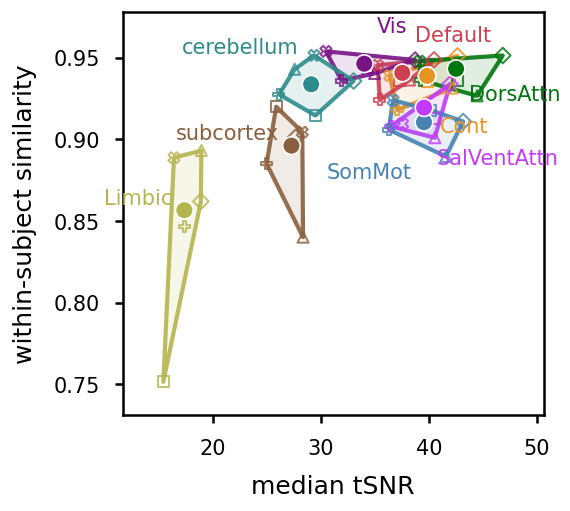
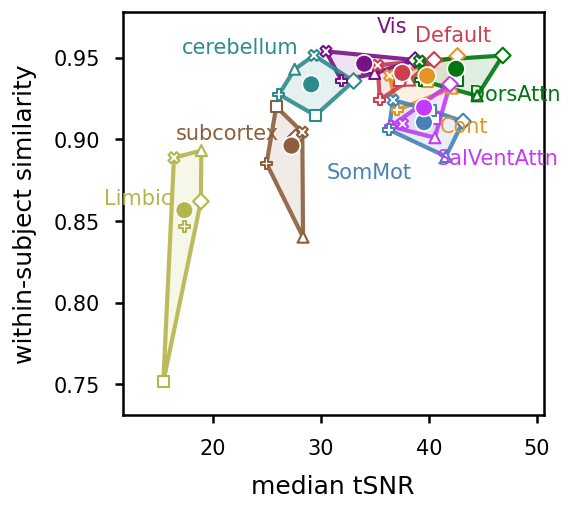
Refresh CLAUDE.md numbers after the 2026-10-04 recompute; white-fill panel C markers
Today's recompute (TR 1.49 s, qa_figures 53a3340) moved the populations
CLAUDE.md quotes: 650/1128 sessions pass the gate (was 659/1126) and 496
are QC-covered (was 304). Update every derived number in the gate,
motion and tSNR sections, plus matching docstrings and CONTENT.md.

Substantive changes to the reported results:
- duration imbalance between within-/between-task bins is now ~1.16x
- motion: still a null (min p 0.555), now stated explicitly
- tSNR: sign now mixed rather than predominantly negative; 1 of 18
  tests reaches p<0.05 (subcortex, fd_residual, 5/6 subjects), which
  fails the six-participant rule and is about chance across 18 tests
- claim 2's ordering rechecked: 27/27 cells on both QC axes, 9/9
  networks under all five gates
- panel G stability order: DorsAttn now ranks above Default

Panel C: subject markers get a white face so the network outlines no
longer show through them.

diff --git a/analysis/motion_strata.py b/analysis/motion_strata.py
@@ -8,8 +8,8 @@ this is a *relative* split, not an absolute-threshold one, and `fd_mean`
 coverage (mario, harrypotter both entirely unmatched upstream) rules out the
 domain stratification — this runs pooled over all FD-covered datasets. See
 CLAUDE.md, "Motion stratification", for the full empirical basis (motion is
-subject- and dataset-specific, `fd_mean` vs `tsnr` r=-0.68, `fd_mean` vs
-usable duration r=-0.065).
+subject- and dataset-specific, `fd_mean` vs `tsnr` r=-0.65, `fd_mean` vs
+usable duration r=-0.013).
 
 Thin configuration over `analysis/quality_strata.py`, which holds the
 machinery shared with `analysis/tsnr_strata.py`. Low motion is the *good*
@@ -39,7 +39,7 @@ MOTION_STRATUM = "motion_stratum"
 GOOD_STRATUM = "low"
 
 # Pair-min usable duration AND pair-min tSNR: the motion stratum is
-# substantially a tSNR stratum too (r=-0.68 — CLAUDE.md, "Motion
+# substantially a tSNR stratum too (r=-0.65 — CLAUDE.md, "Motion
 # stratification") and both must be reported together, never as independent
 # axes.
 MOTION_BALANCE_COLUMNS = (

diff --git a/analysis/quality_strata.py b/analysis/quality_strata.py
@@ -42,7 +42,7 @@ DEFAULT_SPLITS = (
 )
 
 # The column every analysis defines its covered population by. Both axes have
-# identical coverage in practice (246/246 gated sessions), and sharing one
+# identical coverage in practice (496/496 QC-covered sessions), and sharing one
 # definition is what makes the per-axis gates in `group_stats.GATES` directly
 # comparable — see CLAUDE.md, "tSNR stratification".
 COVERAGE_COLUMN = "fd_mean"
@@ -96,7 +96,7 @@ def assign_strata(index_frame, column, stratum_column, split_by=("subject", "dat
     predictor *within the same group* (`_cell_residuals`), which makes the
     stratum orthogonal to the predictor by construction rather than by
     assumption — see CLAUDE.md, "tSNR stratification", for why that matters
-    when the two QC axes correlate at r = -0.68.
+    when the two QC axes correlate at r = -0.65.
     """
     frame = index_frame.copy()
     frame[stratum_column] = pd.array([None] * len(frame), dtype=object)

diff --git a/analysis/tsnr_strata.py b/analysis/tsnr_strata.py
@@ -14,7 +14,7 @@ it (CLAUDE.md, "tSNR stratification"):
   the gap on 2026-10-04, and a per-network version is now feasible but not
   implemented (CLAUDE.md, "Still open").
 - **Two stratum definitions, not one.** `tsnr` and `fd_mean` correlate at
-  r=-0.68, and a raw tSNR median split agrees with the motion stratum on 72%
+  r=-0.65, and a raw tSNR median split agrees with the motion stratum on 72%
   of sessions, so a raw-only analysis would largely re-run the motion result.
   `fd_residual` splits on tSNR residualized on `fd_mean` within the same cell,
   which is near-independent of the motion stratum (~chance agreement) and

diff --git a/tasks.py b/tasks.py
@@ -699,7 +699,7 @@ def run_tsnr_strata(c, dataset=None, smoke=False):
     dataset) cell, under two definitions carried side by side in a
     `stratum_def` column: `raw` tSNR, and `fd_residual` — tSNR residualized on
     `fd_mean` within the same cell, which is what separates a signal-quality
-    effect from the motion effect the two axes share (r=-0.68). Whole-brain
+    effect from the motion effect the two axes share (r=-0.65). Whole-brain
     tSNR only, chosen when `atlas_tsnr` was empty upstream for every gated
     dataset; it is now populated for most of them, but this step has not been
     extended per network.

diff --git a/CLAUDE.md b/CLAUDE.md
@@ -118,7 +118,7 @@ These are decided. Implement them as written; do not reopen them unprompted.
 - **Pearson only for results; `partial_ledoitwolf` computed and stored, not reported.** `run-connectomes` still computes both measures identically for every network — `pearson` and `partial_ledoitwolf` (nilearn's default-shrinkage partial correlation) — via `connectome_measures` in `invoke.yaml`, but `run-group-stats` reads only `analysis_measure: pearson`. See "Why partial correlation was dropped" above for the numbers behind this. The unregularized empirical inverse (`partial_empirical`) was tried earlier and dropped for a separate reason: for run-level data, `n_samples` can be smaller than `n_parcels` in the larger networks (Default has 209 parcels, SomMot 194 for cneuromod2026), making the sample covariance exactly singular — a routine failure, not an edge case.
 - **Session-level only.** `run-connectomes` writes one connectome per session (runs z-scored, then concatenated — see "Standardize, then concatenate" below) for **every** session found. There is no run-level connectome output; the session is the sole unit of analysis (~1,200 volumes at TR = 1.49 s vs. ~150 parcels per cortical network — comfortably more observations than variables). Per-run QC (motion, tSNR) is still read and aggregated up to the session, since qa_figures only tabulates it per run — see "The QC measures asset (qa_figures)" above — but no per-run connectome is computed or stored.
 - **Record QC, never gate on it, at connectome-computation time.** Every session found gets a connectome; all exclusion happens in `run-group-stats`, where it can be varied without recomputing. This keeps "exclusion thresholds must not be tuned against similarity contrasts" (below) honest.
-- **Usable-data gate: `usable_duration_sec >= 1800` (30 minutes), everywhere.** Chosen a priori from QC, not tuned against similarity contrasts — but not on duration alone either. `run-group-stats`'s cross-context contrast (claim 2) compares within-dataset against between-dataset session pairs, and pair *duration* is itself a confound there: at the earlier 600 s gate, median pair min-duration was ~2661–2692 s for the two within-task bins versus ~1701–1706 s for the two between-task bins — a ~1.6x imbalance that similarity rises with, independent of any task effect. Raising the gate to 1800 s narrowed that gap sharply. **It no longer closes it, as of 2026-09-05**: with the six datasets added on 2026-09-04 in the analysis, the gated bins are ~2772/2778 s for the two within-task bins against ~2307/2327 s for the two between-task bins — a ~1.20x imbalance, up from the ~4% (~2668–2784 s) the gate achieved over the original 11 datasets. Part of claim 2's between-task drop is therefore again a duration effect, and the gate alone no longer neutralizes it. Report the medians in `duration_balance.tsv` alongside the contrast; do not present the 1800 s gate as having made this contrast duration-clean. This is a threshold chosen from an acquisition/design property (pair duration composition), computed with no reference to similarity values — not the forbidden kind of tuning. `run-group-stats` writes this comparison to `duration_balance.tsv` for both gates. The cost: `floc` (0/18 sessions survive), `retinotopy` (0/23), `things` (0/141), `gamepad` (0/17), `langlocalizer` (0/12) and `triplets` (0/105) leave claim 2 entirely — six of the sixteen task contexts, and the ones least like the naturalistic datasets — so claim 2 spans 10 contexts (`friends, harrypotter, hcptrt, mario, movie10, multfs, mutemusic, narratives, petit-prince, shinobi`). All 6 subjects are retained. At 1800 s, 659 of 1126 sessions survive. `run-group-stats` still reports every headline table both gated and ungated (`gate="all"` in every TSV) as the standing sensitivity comparison.
+- **Usable-data gate: `usable_duration_sec >= 1800` (30 minutes), everywhere.** Chosen a priori from QC, not tuned against similarity contrasts — but not on duration alone either. `run-group-stats`'s cross-context contrast (claim 2) compares within-dataset against between-dataset session pairs, and pair *duration* is itself a confound there: at the earlier 600 s gate, median pair min-duration was ~2661–2692 s for the two within-task bins versus ~1701–1706 s for the two between-task bins — a ~1.6x imbalance that similarity rises with, independent of any task effect. Raising the gate to 1800 s narrowed that gap sharply. **It no longer closes it, as of 2026-10-04**: with the six datasets added on 2026-09-04 in the analysis, the gated bins are ~2628/2596 s for the two within-task bins against ~2248/2268 s for the two between-task bins — a ~1.16x imbalance, up from the ~4% (~2668–2784 s) the gate achieved over the original 11 datasets. Part of claim 2's between-task drop is therefore again a duration effect, and the gate alone no longer neutralizes it. Report the medians in `duration_balance.tsv` alongside the contrast; do not present the 1800 s gate as having made this contrast duration-clean. This is a threshold chosen from an acquisition/design property (pair duration composition), computed with no reference to similarity values — not the forbidden kind of tuning. `run-group-stats` writes this comparison to `duration_balance.tsv` for both gates. The cost: `floc` (0/18 sessions survive), `retinotopy` (0/23), `things` (0/141), `gamepad` (0/17), `langlocalizer` (0/12) and `triplets` (0/107) leave claim 2 entirely — six of the sixteen task contexts, and the ones least like the naturalistic datasets — so claim 2 spans 10 contexts (`friends, harrypotter, hcptrt, mario, movie10, multfs, mutemusic, narratives, petit-prince, shinobi`). All 6 subjects are retained. At 1800 s, 650 of 1128 sessions survive. `run-group-stats` still reports every headline table both gated and ungated (`gate="all"` in every TSV) as the standing sensitivity comparison.
 - **float32, raw coefficients only.** Fisher-z is `arctanh` of the raw values, computed where used. This **amends** the original "store both raw and Fisher-z" decision.
 - **Estimate independently within each network.** For a network of `p` parcels, build the `p × p` covariance and invert that. The primary analysis must **never silently attempt to invert a 1000+ × 1000+ covariance matrix** — it is both computationally and statistically wrong here. Cross-network edges are out of the primary analysis. A full regularized whole-brain precision matrix is a possible *later* secondary analysis.
 - **Standardize, then concatenate.** Each run's parcel time series is z-scored *within the run* before runs from the same session are concatenated (`analysis/timeseries_reader.py`'s `standardize_run`). Never concatenate raw runs — run-specific means and scaling differences would themselves induce correlations. (Timeseries are already standardized upstream per TIMESERIES.md, so this is a safeguard, not the thing doing the work.)
@@ -145,41 +145,43 @@ A robustness-tier check (`analysis/motion_strata.py`, `run-motion-strata`): does
 
 The design started as "FD < 0.1 vs FD > 0.3, cross-motion within subject" and was reshaped by two empirical facts:
 
-- **No session in the gated population reaches `fd_mean > 0.3`.** Over the 659 gated sessions, max is 0.248, median 0.121, 99th pct 0.222 — CNeuroMod adults, averaged over a >=30 min session, are a uniformly low-motion cohort. So the split is **relative** (median split within a group), not an absolute mm threshold.
-- **`fd_mean` covers only 304 of 659 gated sessions.** `mario` (empty QC table upstream) and `harrypotter` (blank `session` column upstream) have zero coverage, so the domain stratification (movies/videogames/stories) cannot carry this analysis — it runs **pooled over all FD-covered datasets** instead: `friends`, `movie10`, `hcptrt`, `shinobi`, `petit-prince`, `multfs`, `mutemusic`, `narratives`.
+- **No session in the gated population reaches `fd_mean > 0.3`.** Over the 496 QC-covered sessions, max is 0.248, median 0.128, 99th pct 0.221 — CNeuroMod adults, averaged over a >=30 min session, are a uniformly low-motion cohort. So the split is **relative** (median split within a group), not an absolute mm threshold.
+- **`fd_mean` covers only 496 of 650 gated sessions.** `mario` (empty QC table upstream) and `harrypotter` (blank `session` column upstream) have zero coverage, so the domain stratification (movies/videogames/stories) cannot carry this analysis — it runs **pooled over all FD-covered datasets** instead: `friends`, `movie10`, `hcptrt`, `shinobi`, `petit-prince`, `multfs`, `mutemusic`, `narratives`.
 
 **QC-covered population** (`analysis.motion_strata.qc_covered_mask`): gated (`usable_duration_sec >= group_stats.min_usable_seconds`) **and** `fd_mean` present. Every motion table is restricted to this population — never the raw gated population, which would let `fd_mean`-uncovered sessions leak in unassigned.
 
-**Strata**: `motion_stratum in {low, high}` = below/above the median `fd_mean` within each **(subject, dataset)** cell (`assign_motion_strata`, split `"cell"`), cells with fewer than 4 covered sessions dropped (276 of 304 sessions survive). Motion is strongly subject- and dataset-specific (median `fd_mean` ranges 0.085-0.187 across subjects; sub-02 alone is 9 high/0 low on shinobi vs. 3 high/14 low on friends), so splitting within subject alone would leave "high motion" partly meaning "shinobi" — the (subject, dataset) cell makes the stratum orthogonal to both by construction. The plain **within-subject** median split (304 sessions) is computed and written alongside it as a secondary `split` column in every table (`"cell"` vs. `"subject"`), not a second code path.
+**Strata**: `motion_stratum in {low, high}` = below/above the median `fd_mean` within each **(subject, dataset)** cell (`assign_motion_strata`, split `"cell"`), cells with fewer than 4 covered sessions dropped (468 of 496 sessions survive). Motion is strongly subject- and dataset-specific (median `fd_mean` ranges 0.082-0.166 across subjects; on the within-subject split, sub-02 alone is 9 high/0 low on shinobi vs. 23 high/29 low on friends), so splitting within subject alone would leave "high motion" partly meaning "shinobi" — the (subject, dataset) cell makes the stratum orthogonal to both by construction. The plain **within-subject** median split (496 sessions) is computed and written alongside it as a secondary `split` column in every table (`"cell"` vs. `"subject"`), not a second code path.
 
-`fd_mean` vs. `tsnr` is **r = -0.68** — the motion stratum is substantially a tSNR stratum, and `motion_balance.tsv` reports both together, never as independent axes. `fd_mean` vs. usable duration is **r = -0.070** and the strata come out duration-balanced (a few percent apart), so the duration confound that forced the 1800 s gate does not bite here.
+`fd_mean` vs. `tsnr` is **r = -0.65** — the motion stratum is substantially a tSNR stratum, and `motion_balance.tsv` reports both together, never as independent axes. `fd_mean` vs. usable duration is **r = -0.013** and the strata come out duration-balanced (a few percent apart), so the duration confound that forced the 1800 s gate does not bite here.
 
 **Pair bins** (`motion_pair_bin_labels`/`motion_pair_bins`): 3 motion pairings (`low-low`, `low-high`, `high-high`) x 2 task bins (`within-task`/`between-task`, dataset equality — same axis as `cross_context`), **within-subject pairs only**.
 
 **Inference** (six subjects — CLAUDE.md, "Scientific objective"): pooled medians are descriptive only. `motion_permutation.tsv` carries two additions per network: a two-sided permutation test (`N=motion_strata.n_permutations`, shuffling `motion_stratum` *within each (subject, dataset) cell* — the exchangeability the stratification buys — and recomputing `median(low-low) - median(high-high)`, pooled over both task bins since motion, not task, is the axis under test), and per-subject replication (`n_subjects_replicating`/`n_subjects_total`: in how many of 6 subjects `median(low-low) > median(high-high)` holds individually).
 
+**Result, as of 2026-10-04** (650 gated / 496 QC-covered sessions): a null. No network reaches p<0.05 (smallest p = 0.555), max |observed_diff| is 0.010 against a within-task/between-task gap of ~0.05-0.18, and the pooled sign is mixed (6 networks negative, 3 positive). Claim 2's within-task > between-task ordering holds in **27/27** network x motion-pairing cells.
+
 **Honest framing**, to carry into any text reporting these numbers: this tests whether *relative* motion differences inside an already low-motion cohort move connectome similarity. A null is informative about these data; it is not evidence about high-motion data in general.
 
-**`low_motion`/`high_tsnr` vs. `qc_covered`, not vs. `gated`.** `analysis/group_stats.py`'s `GATES` is `("all", "gated", "qc_covered", "low_motion", "high_tsnr")`, where `qc_covered` is gated and `fd_mean` present, `low_motion` is `qc_covered` and `motion_stratum == "low"`, and `high_tsnr` is `qc_covered` and `tsnr_stratum == "high"` (raw definition) — both on the `"cell"` split, both delegated to `analysis.motion_strata`/`analysis.tsnr_strata` from `_gate_mask_for` rather than reimplemented. The meaningful contrast for the headline tables is against `qc_covered`, not `gated`: both quality gates necessarily drop mario/harrypotter (no QC coverage), so comparing them against `gated` would confound a quality effect with that change in dataset composition. The two gates are coupled, not independent checks — `high_tsnr` is 71% concordant with `low_motion` (see "tSNR stratification" below). Verified: claim 2's four-bin ordering (within-subj/within-task > within-subj/between-task > between-subj/within-task > between-subj/between-task) holds in all 9 networks under `qc_covered`, `low_motion` and `high_tsnr` alike.
+**`low_motion`/`high_tsnr` vs. `qc_covered`, not vs. `gated`.** `analysis/group_stats.py`'s `GATES` is `("all", "gated", "qc_covered", "low_motion", "high_tsnr")`, where `qc_covered` is gated and `fd_mean` present, `low_motion` is `qc_covered` and `motion_stratum == "low"`, and `high_tsnr` is `qc_covered` and `tsnr_stratum == "high"` (raw definition) — both on the `"cell"` split, both delegated to `analysis.motion_strata`/`analysis.tsnr_strata` from `_gate_mask_for` rather than reimplemented. The meaningful contrast for the headline tables is against `qc_covered`, not `gated`: both quality gates necessarily drop mario/harrypotter (no QC coverage), so comparing them against `gated` would confound a quality effect with that change in dataset composition. The two gates are coupled, not independent checks — `high_tsnr` is 72% concordant with `low_motion` (see "tSNR stratification" below). Verified: claim 2's four-bin ordering (within-subj/within-task > within-subj/between-task > between-subj/within-task > between-subj/between-task) holds in all 9 networks under `qc_covered`, `low_motion` and `high_tsnr` alike (rechecked 2026-10-04).
 
 ### tSNR stratification
 
-The companion robustness-tier check on the other QC axis (`analysis/tsnr_strata.py`, `run-tsnr-strata`): does connectome similarity depend on acquisition signal quality, and does claim 2's ordering survive when tSNR is held high? Thin configuration over the same `analysis/quality_strata.py` core as the motion check, over the **same** QC-covered population, with `high` as the good stratum so `observed_diff = median(high-high) - median(low-low)` keeps the "better quality is positive" sign convention on both axes. Standalone figure (`notebooks/figure_tsnr.ipynb`), **not** placed in `output_data/connectome_figure.svg`. The notebook renders two panels, one per `stratum_def`, sharing one legend: `tsnr_bins_raw.png` (median split on `tsnr` itself) is the **primary, reported** result, and `tsnr_bins_fd_residual.png` (median split on `tsnr` residualized on `fd_mean` within cell) is a **sensitivity-analysis** panel, not a second headline — tSNR and `fd_mean` correlate at r=-0.68 (related, but not equivalent to motion), so `fd_residual` checks whether the `raw` result survives once head motion is regressed out, kept separate rather than crowding the primary panel because it reads as more cryptic than `raw` on its own. Both panels group bars with all within-task bins next to one another and all between-task bins next to one another (task outer, tSNR-pairing inner), matching the motion figure's convention. The duration/tSNR/motion balance audit (`tsnr_balance.tsv`) and the permutation-test effect sizes (`tsnr_permutation.tsv`) are still computed by `run-tsnr-strata`, and reported as text (key stats and ranges), not as figure panels — this is the user's explicit preference, at their request.
+The companion robustness-tier check on the other QC axis (`analysis/tsnr_strata.py`, `run-tsnr-strata`): does connectome similarity depend on acquisition signal quality, and does claim 2's ordering survive when tSNR is held high? Thin configuration over the same `analysis/quality_strata.py` core as the motion check, over the **same** QC-covered population, with `high` as the good stratum so `observed_diff = median(high-high) - median(low-low)` keeps the "better quality is positive" sign convention on both axes. Standalone figure (`notebooks/figure_tsnr.ipynb`), **not** placed in `output_data/connectome_figure.svg`. The notebook renders two panels, one per `stratum_def`, sharing one legend: `tsnr_bins_raw.png` (median split on `tsnr` itself) is the **primary, reported** result, and `tsnr_bins_fd_residual.png` (median split on `tsnr` residualized on `fd_mean` within cell) is a **sensitivity-analysis** panel, not a second headline — tSNR and `fd_mean` correlate at r=-0.65 (related, but not equivalent to motion), so `fd_residual` checks whether the `raw` result survives once head motion is regressed out, kept separate rather than crowding the primary panel because it reads as more cryptic than `raw` on its own. Both panels group bars with all within-task bins next to one another and all between-task bins next to one another (task outer, tSNR-pairing inner), matching the motion figure's convention. The duration/tSNR/motion balance audit (`tsnr_balance.tsv`) and the permutation-test effect sizes (`tsnr_permutation.tsv`) are still computed by `run-tsnr-strata`, and reported as text (key stats and ranges), not as figure panels — this is the user's explicit preference, at their request.
 
 Two empirical facts shaped the design, both settled before the code was written:
 
 - **Whole-brain tSNR only.** This was forced when the step was written: `tables/atlas_tsnr/` was then populated upstream only for `floc`, `retinotopy` and `things` — the three datasets the 1800 s gate removes — so the per-network `tsnr_{network}` columns `run-connectomes` joins onto every session index were all-NaN over the QC-covered population. **That gap closed upstream on 2026-10-04** (qa_figures `53a3340`): `atlas_tsnr` is now populated for 11 datasets — `floc`, `friends`, `gamepad`, `hcptrt`, `langlocalizer`, `mario`, `movie10`, `mutemusic`, `narratives`, `retinotopy` and `things` — and the columns are non-NaN for **379 of 496 QC-covered sessions** (`multfs`, `petit-prince`, `shinobi` remain uncovered). A per-network version is therefore now feasible; it is not implemented, and whether to add it is open (see "Still open" below).
-- **tSNR is strongly coupled to motion, so there are two stratum definitions.** `fd_mean` vs. `tsnr` is r = -0.68, and a raw tSNR median split lands in the same stratum as the motion split for **196 of 276** sessions (71%) — a raw-only analysis would largely re-run the motion check. Every table therefore carries a `stratum_def` column alongside `split`: `raw` (median split on `tsnr`) and `fd_residual` (median split on `tsnr` residualized on `fd_mean` **within the same cell**, via an OLS fit falling back to mean-centering on a zero-variance predictor). `fd_residual` is 146/276 concordant with the motion stratum — close enough to chance to read as an independent axis — and is the definition that answers "does signal quality matter *beyond* head motion". Both run in one code path, as `MOTION_SPLITS` already does for the split axis.
+- **tSNR is strongly coupled to motion, so there are two stratum definitions.** `fd_mean` vs. `tsnr` is r = -0.65, and a raw tSNR median split lands in the same stratum as the motion split for **336 of 468** sessions (72%) — a raw-only analysis would largely re-run the motion check. Every table therefore carries a `stratum_def` column alongside `split`: `raw` (median split on `tsnr`) and `fd_residual` (median split on `tsnr` residualized on `fd_mean` **within the same cell**, via an OLS fit falling back to mean-centering on a zero-variance predictor). `fd_residual` is 238/468 concordant with the motion stratum (51%) — close enough to chance to read as an independent axis — and is the definition that answers "does signal quality matter *beyond* head motion". Both run in one code path, as `MOTION_SPLITS` already does for the split axis.
 
-**QC-covered population is keyed on `fd_mean`, not `tsnr`** (`quality_strata.COVERAGE_COLUMN`). The two have identical coverage in practice (304/304 QC-covered sessions, since both come from the same qa_figures table), and sharing one population definition is what makes `high_tsnr` vs. `low_motion` a like-for-like comparison — and what makes the `fd_residual` definition well-defined at all. `motion_balance.tsv` and `tsnr_balance.tsv` are deliberately symmetric about this: each reports the *other* axis alongside its own, never presenting the two as independent.
+**QC-covered population is keyed on `fd_mean`, not `tsnr`** (`quality_strata.COVERAGE_COLUMN`). The two have identical coverage in practice (496/496 QC-covered sessions, since both come from the same qa_figures table), and sharing one population definition is what makes `high_tsnr` vs. `low_motion` a like-for-like comparison — and what makes the `fd_residual` definition well-defined at all. `motion_balance.tsv` and `tsnr_balance.tsv` are deliberately symmetric about this: each reports the *other* axis alongside its own, never presenting the two as independent.
 
-**Strata** mirror the motion check exactly: median split within each (subject, dataset) cell (`split="cell"`, primary, 276 of 304 sessions after dropping cells with fewer than 4 covered sessions), with the plain within-subject split (304 sessions) alongside as `split="subject"`.
+**Strata** mirror the motion check exactly: median split within each (subject, dataset) cell (`split="cell"`, primary, 468 of 496 sessions after dropping cells with fewer than 4 covered sessions), with the plain within-subject split (496 sessions) alongside as `split="subject"`.
 
-**Duration is a mild confound, and it points the wrong way to explain the result.** `tsnr` vs. usable duration is r = 0.08 at the session level, and `tsnr_balance.tsv` shows the strata are duration-balanced within the within-task bin (high-high vs. low-low pair-min duration 2748 s vs. 2704 s under `raw`, 1.02x; 2712 s vs. 2732 s under `fd_residual`). The between-task bin is *not* balanced: 2722 s vs. 2361 s under `raw`, a 1.15x gap, shrinking to 1.06x under `fd_residual`. Since similarity rises with duration, that gap would push high-high pairs *up* relative to low-low — the opposite of the observed negative `observed_diff`, so it cannot be what produces the effect. Report it; do not claim this axis is duration-clean.
+**Duration is a mild confound, and it cannot explain the result.** `tsnr` vs. usable duration is r = -0.02 at the session level, and `tsnr_balance.tsv` shows the strata are duration-balanced within the within-task bin (high-high vs. low-low pair-min duration 2627 s vs. 2642 s under `raw`, 0.99x; 2636 s vs. 2639 s under `fd_residual`). The between-task bin is less balanced under `raw`: 2429 s vs. 2202 s, a 1.10x gap, shrinking to 1.01x under `fd_residual`. Since similarity rises with duration, that gap would push high-high pairs *up* relative to low-low under `raw` — yet the effect is null under both definitions, including the duration-balanced `fd_residual` one. Report it; do not claim the `raw` axis is duration-clean.
 
-The motion coupling is visible and only partly removable: `median_max_fd_mean` runs 0.107 → 0.131 across the six bins under `raw` and 0.116 → 0.128 under `fd_residual`. Residualizing shrinks it; it never eliminates it. Say so rather than claiming the residualized stratum is motion-free.
+The motion coupling is visible under `raw` and nearly removed by residualizing: `median_max_fd_mean` runs 0.124 → 0.136 across the six bins under `raw` and 0.130 → 0.133 under `fd_residual`. Say "nearly", not "motion-free".
 
-**Result, as of 2026-09-05** (recomputed over 659 gated / 304 QC-covered sessions after the six datasets added on 2026-09-04 entered the analysis). Claim 2's within-task > between-task ordering holds in **27/27** network x stratum-pairing cells under both definitions, and the four-bin ordering holds in all 9 networks under the `high_tsnr` gate. The stratum effect itself is negligible and **predominantly negative** — higher tSNR gives very slightly *lower* similarity: max |observed_diff| is 0.010 (`raw`) and 0.014 (`fd_residual`), against a within-task/between-task gap of ~0.15-0.4. **No network reaches p<0.05 under either definition** (0 of 9 for both), where the smaller 2026-08-18 population had 1 of 9 under `raw` and 4 of 9 under `fd_residual` — those marginal p-values did not survive more data, which is what the per-subject replication rule already implied. **Per-subject replication does not support any of it either**: at best 4 of 6 subjects agree with the pooled sign in any network. By this project's six-participant inference rule (see "Scientific objective"), that is a null, and the pooled p-values must not be reported as a finding without it. Note `n_subjects_replicating` counts the *positive* direction (`median(high-high) > median(low-low)`), so where `observed_diff` is negative the count agreeing with the pooled sign is the complement — `figure_tsnr.ipynb` computes and annotates that complement rather than the raw column.
+**Result, as of 2026-10-04** (recomputed over 650 gated / 496 QC-covered sessions, after the TR correction to 1.49 s and qa_figures `53a3340` expanded QC coverage). Claim 2's within-task > between-task ordering holds in **27/27** network x stratum-pairing cells under both definitions, and the four-bin ordering holds in all 9 networks under the `high_tsnr` gate. The stratum effect itself is negligible and **of mixed sign** (5 positive / 4 negative under `raw`, 3 / 6 under `fd_residual`): max |observed_diff| is 0.014 under both definitions, against a within-task/between-task gap of ~0.06-0.19. **One of 18 network x definition tests reaches p<0.05** — subcortex under `fd_residual` (p = 0.011, observed_diff = -0.010, 5 of 6 subjects agreeing with the negative sign) — about what chance predicts across 18 tests, and it fails the six-participant rule (see "Scientific objective"), which asks for all six. The closest to full replication is Limbic under `raw` (6 of 6 subjects agree on a negative sign) at p = 0.279. Read together: a null, with a weak, unconfirmed hint that higher tSNR goes with very slightly *lower* similarity in the two lowest-tSNR networks. The 2026-09-05 population (659 / 304) had 0 of 18 tests at p<0.05; the 2026-08-18 one had 5 of 18 — marginal p-values that come and go with the population, which is exactly why the replication rule exists. Do not report pooled p-values as a finding without it. Note `n_subjects_replicating` counts the *positive* direction (`median(high-high) > median(low-low)`), so where `observed_diff` is negative the count agreeing with the pooled sign is the complement — `figure_tsnr.ipynb` computes and annotates that complement rather than the raw column.
 
 **Honest framing**, to carry into any text reporting these numbers: this tests whether *relative* tSNR differences inside a uniformly well-behaved cohort move connectome similarity. A null is informative about these data; it is not evidence about low-SNR data in general.
 
@@ -450,8 +452,8 @@ notebook prints a warning and omits the panel rather than failing.
 
 The tiles are stacked in **decreasing panel-A stability** — the mean over
 season lags of the gated within-subject median similarity, descending (Vis,
-Default, DorsAttn, Cont, cerebellum, SalVentAttn, SomMot, subcortex, Limbic as
-of 2026-08-19) — so the key doubles as a ranking of which networks carry the
+DorsAttn, Default, Cont, cerebellum, SalVentAttn, SomMot, subcortex, Limbic as
+of 2026-10-04) — so the key doubles as a ranking of which networks carry the
 most stable connectomes. `stability_ordered_networks()` in
 `figure_connectomes.ipynb` derives it from `longitudinal_lag.tsv`, falling back
 to `NETWORK_ORDER` if that table is empty and sorting any network friends does
@@ -649,7 +651,7 @@ called.
 **Respect the analysis hierarchy; do not flatten it.** A step belongs to exactly one tier:
 
 1. **Primary** — the two headline analyses above: cross-context similarity (same-/different-subject x same-/different-dataset) and the friends longitudinal drift control, both per network, both gated and ungated.
-2. **Robustness** — checks on the primary result: a further regularized estimator (e.g. graphical lasso) as a check on `partial_ledoitwolf`, removal of the group-average connectome, spatial-distance dependence and neighbouring-parcel exclusion, QC dependence on motion and on tSNR — both implemented, see "Motion stratification" and "tSNR stratification" above — explicit early-versus-late temporal separation, a duration-matched sensitivity check on the cross-context/duration confound (similarity rises with session duration, which varies ~7x across datasets — median usable seconds range from floc 434 to harrypotter 5044 — so part of the between-task drop in claim 2 is a duration effect; report median duration alongside every per-dataset number rather than introducing a duration-correction model), and the domain-restricted cross-context comparisons (movies/videogames/stories — see "Domain-restricted cross-context figures" above), the one robustness check whose panels are placed in the headline montage rather than kept standalone.
+2. **Robustness** — checks on the primary result: a further regularized estimator (e.g. graphical lasso) as a check on `partial_ledoitwolf`, removal of the group-average connectome, spatial-distance dependence and neighbouring-parcel exclusion, QC dependence on motion and on tSNR — both implemented, see "Motion stratification" and "tSNR stratification" above — explicit early-versus-late temporal separation, a duration-matched sensitivity check on the cross-context/duration confound (similarity rises with session duration, which varies ~7x across datasets — median usable seconds range from floc 431 to harrypotter 5011 — so part of the between-task drop in claim 2 is a duration effect; report median duration alongside every per-dataset number rather than introducing a duration-correction model), and the domain-restricted cross-context comparisons (movies/videogames/stories — see "Domain-restricted cross-context figures" above), the one robustness check whose panels are placed in the headline montage rather than kept standalone.
 
 A robustness analysis does not get promoted into the pipeline's main path because it was interesting to implement, and turning every possible branch into an equally weighted step is the failure mode to avoid here. When adding something, say which tier it is in.
 

diff --git a/output_data/CONTENT.md b/output_data/CONTENT.md
@@ -101,7 +101,7 @@ Once the pipeline is run, this folder will contain the following.
     median_min_tsnr, n_sessions`: the pairwise-minimum usable-duration **and**
     tSNR distribution across the six bins, the audit that the motion split is
     not secretly a duration or a pure-tSNR confound (`fd_mean` vs. `tsnr` is
-    r=-0.68, so tSNR is expected to track the stratum; duration, r=-0.065, is
+    r=-0.65, so tSNR is expected to track the stratum; duration, r=-0.013, is
     not).
   - `motion_permutation.tsv` — `network` -> `observed_diff` (`median(low-low) -
     median(high-high)`, pooled over both task bins), `p_value` (two-sided,
@@ -173,7 +173,7 @@ Once the pipeline is run, this folder will contain the following.
   result.
 - `figures/figure_tsnr/tsnr_bins_fd_residual.png` — same layout, under the
   `fd_residual` definition (median split on `tsnr` residualized on `fd_mean`
-  within cell). tSNR and `fd_mean` correlate at r=-0.68 — related, but not
+  within cell). tSNR and `fd_mean` correlate at r=-0.65 — related, but not
   equivalent — so this is a **sensitivity-analysis** panel checking whether
   the `raw` result holds once head motion is regressed out, not a second
   headline result to report on its own.
@@ -254,7 +254,7 @@ Once the pipeline is run, this folder will contain the following.
 - `figures/figure_connectomes/cross_context.png` — claim 2: the four bins ×
   nine networks, all datasets, gated.
 - `figures/figure_connectomes/network_quality.png` — claim 3: per-network
-  within-subject stability vs. median tSNR, one hollow marker per subject
+  within-subject stability vs. median tSNR, one white-filled marker per subject
   (shape = subject, from `network_quality_subject.tsv`) under a filled,
   labelled dot per network median, each network's subject points enclosed in a
   translucent convex-hull outline (falls back to a labelled ordering
